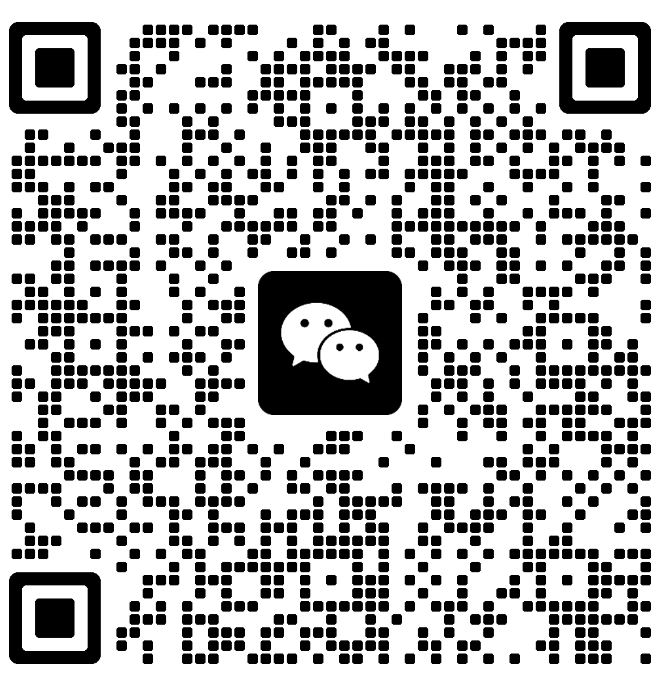
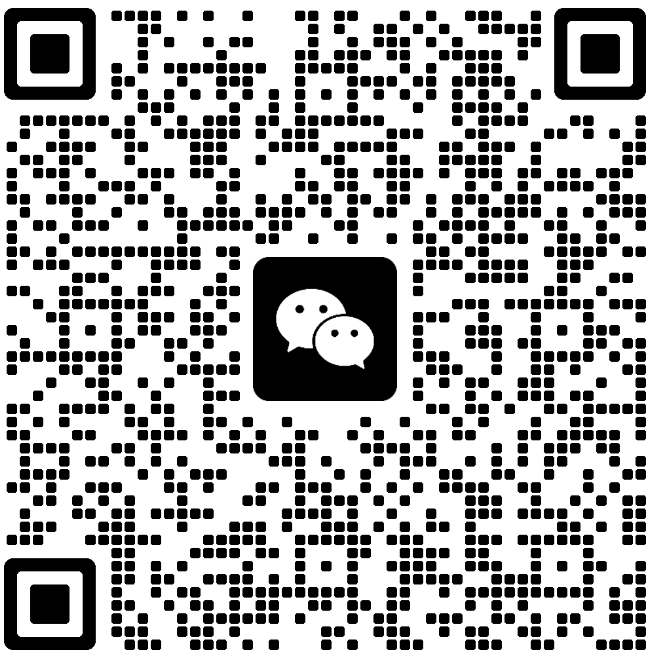
open registration for Fall 2023
Open registration for fall 2023. Update the wechat group QR code for parents to join

diff --git a/classes/2023/fall/main.html b/classes/2023/fall/main.html
@@ -57,7 +57,7 @@
         <div id="home" class="tab-pane fade in active">
           <br />
           <div class="row">
-              <p>**Thank you for your interest in SVY! Registration for fall courses will open soon!**</p>
+              <!-- <p>**Thank you for your interest in SVY! Registration for fall courses will open soon!**</p> -->
 
               <p id = "class-description">
               </p>
@@ -70,9 +70,9 @@
               <!-- <p style="font-weight:bold;">Please sign up and pay for the class <a target="_blank" id = "forms-link" href="" class="signup" id="signup">here</a></p> -->
               <!-- <p id = "registrationEnd" style = "display: none; font-weight: bold;">Thank you for your interest in SVY! Registration for this class has closed for this semester. Be sure to check again next semester!</p> -->
               <div class="col-md-6" style="text-align: left; padding-left:0px">
-                <!-- <p id = "signupText" style = "display: none; color : red; font-weight: bold;">**Please sign up for the class <a id = "signup" href = "">Here</a> **</p> -->
-                <!-- <p> [<a href = "https://sites.google.com/siliconvalleyyouth.com/svyscholarship/how-to-apply">Scholarship</a> for students in need.]</p> -->
-                <!-- <p id = "classFullText" style = "display: none; font-weight: bold;">Sorry, this class is currently full. Please join the waitlist<a id = "waitlist" href = ""> Here</a></p> -->
+                <p id = "signupText" style = "display: none; color : red; font-weight: bold;">**Please sign up for the class <a id = "signup" href = "">Here</a> **</p>
+                <p> [<a href = "https://sites.google.com/siliconvalleyyouth.com/svyscholarship/how-to-apply">Scholarship</a> for students in need.]</p>
+                <p id = "classFullText" style = "display: none; font-weight: bold;">Sorry, this class is currently full. Please join the waitlist<a id = "waitlist" href = ""> Here</a></p>
                 <p id = "registrationEnd" style = "display: none; font-weight: bold;">Thank you for your interest in SVY! Registration for this class has closed for this semester. Be sure to check again next semester!</p>
               </div>
               <div class="col-md-4" style="text-align: left; padding-right:0px">
